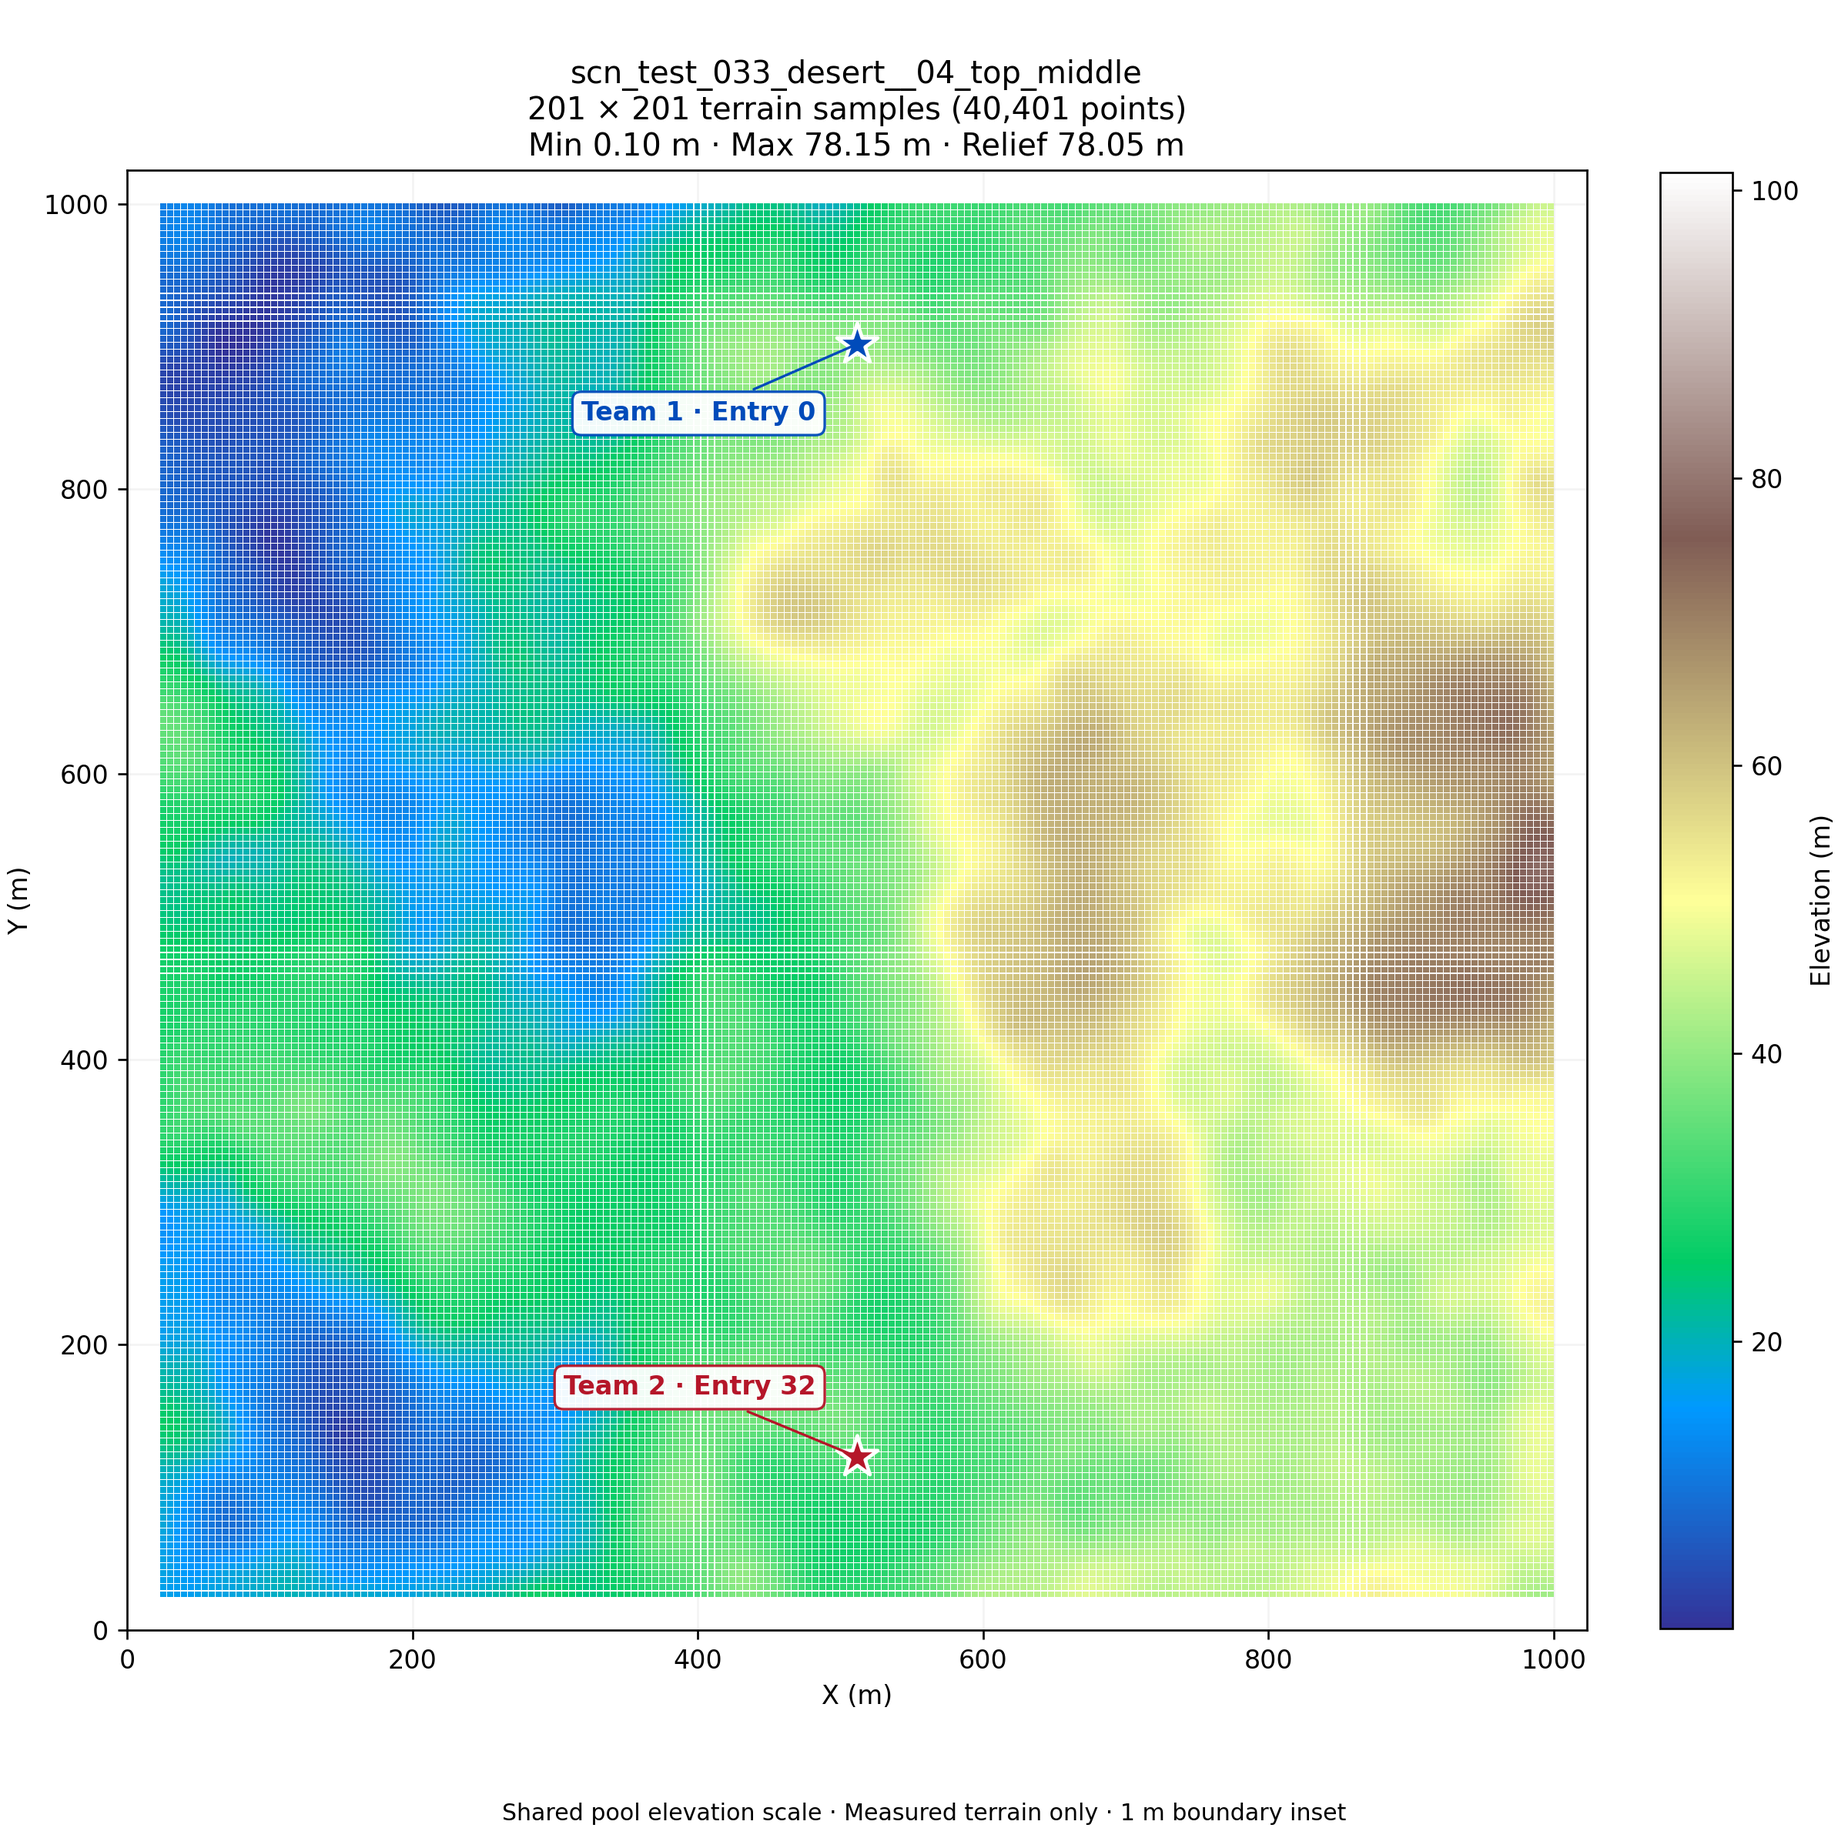
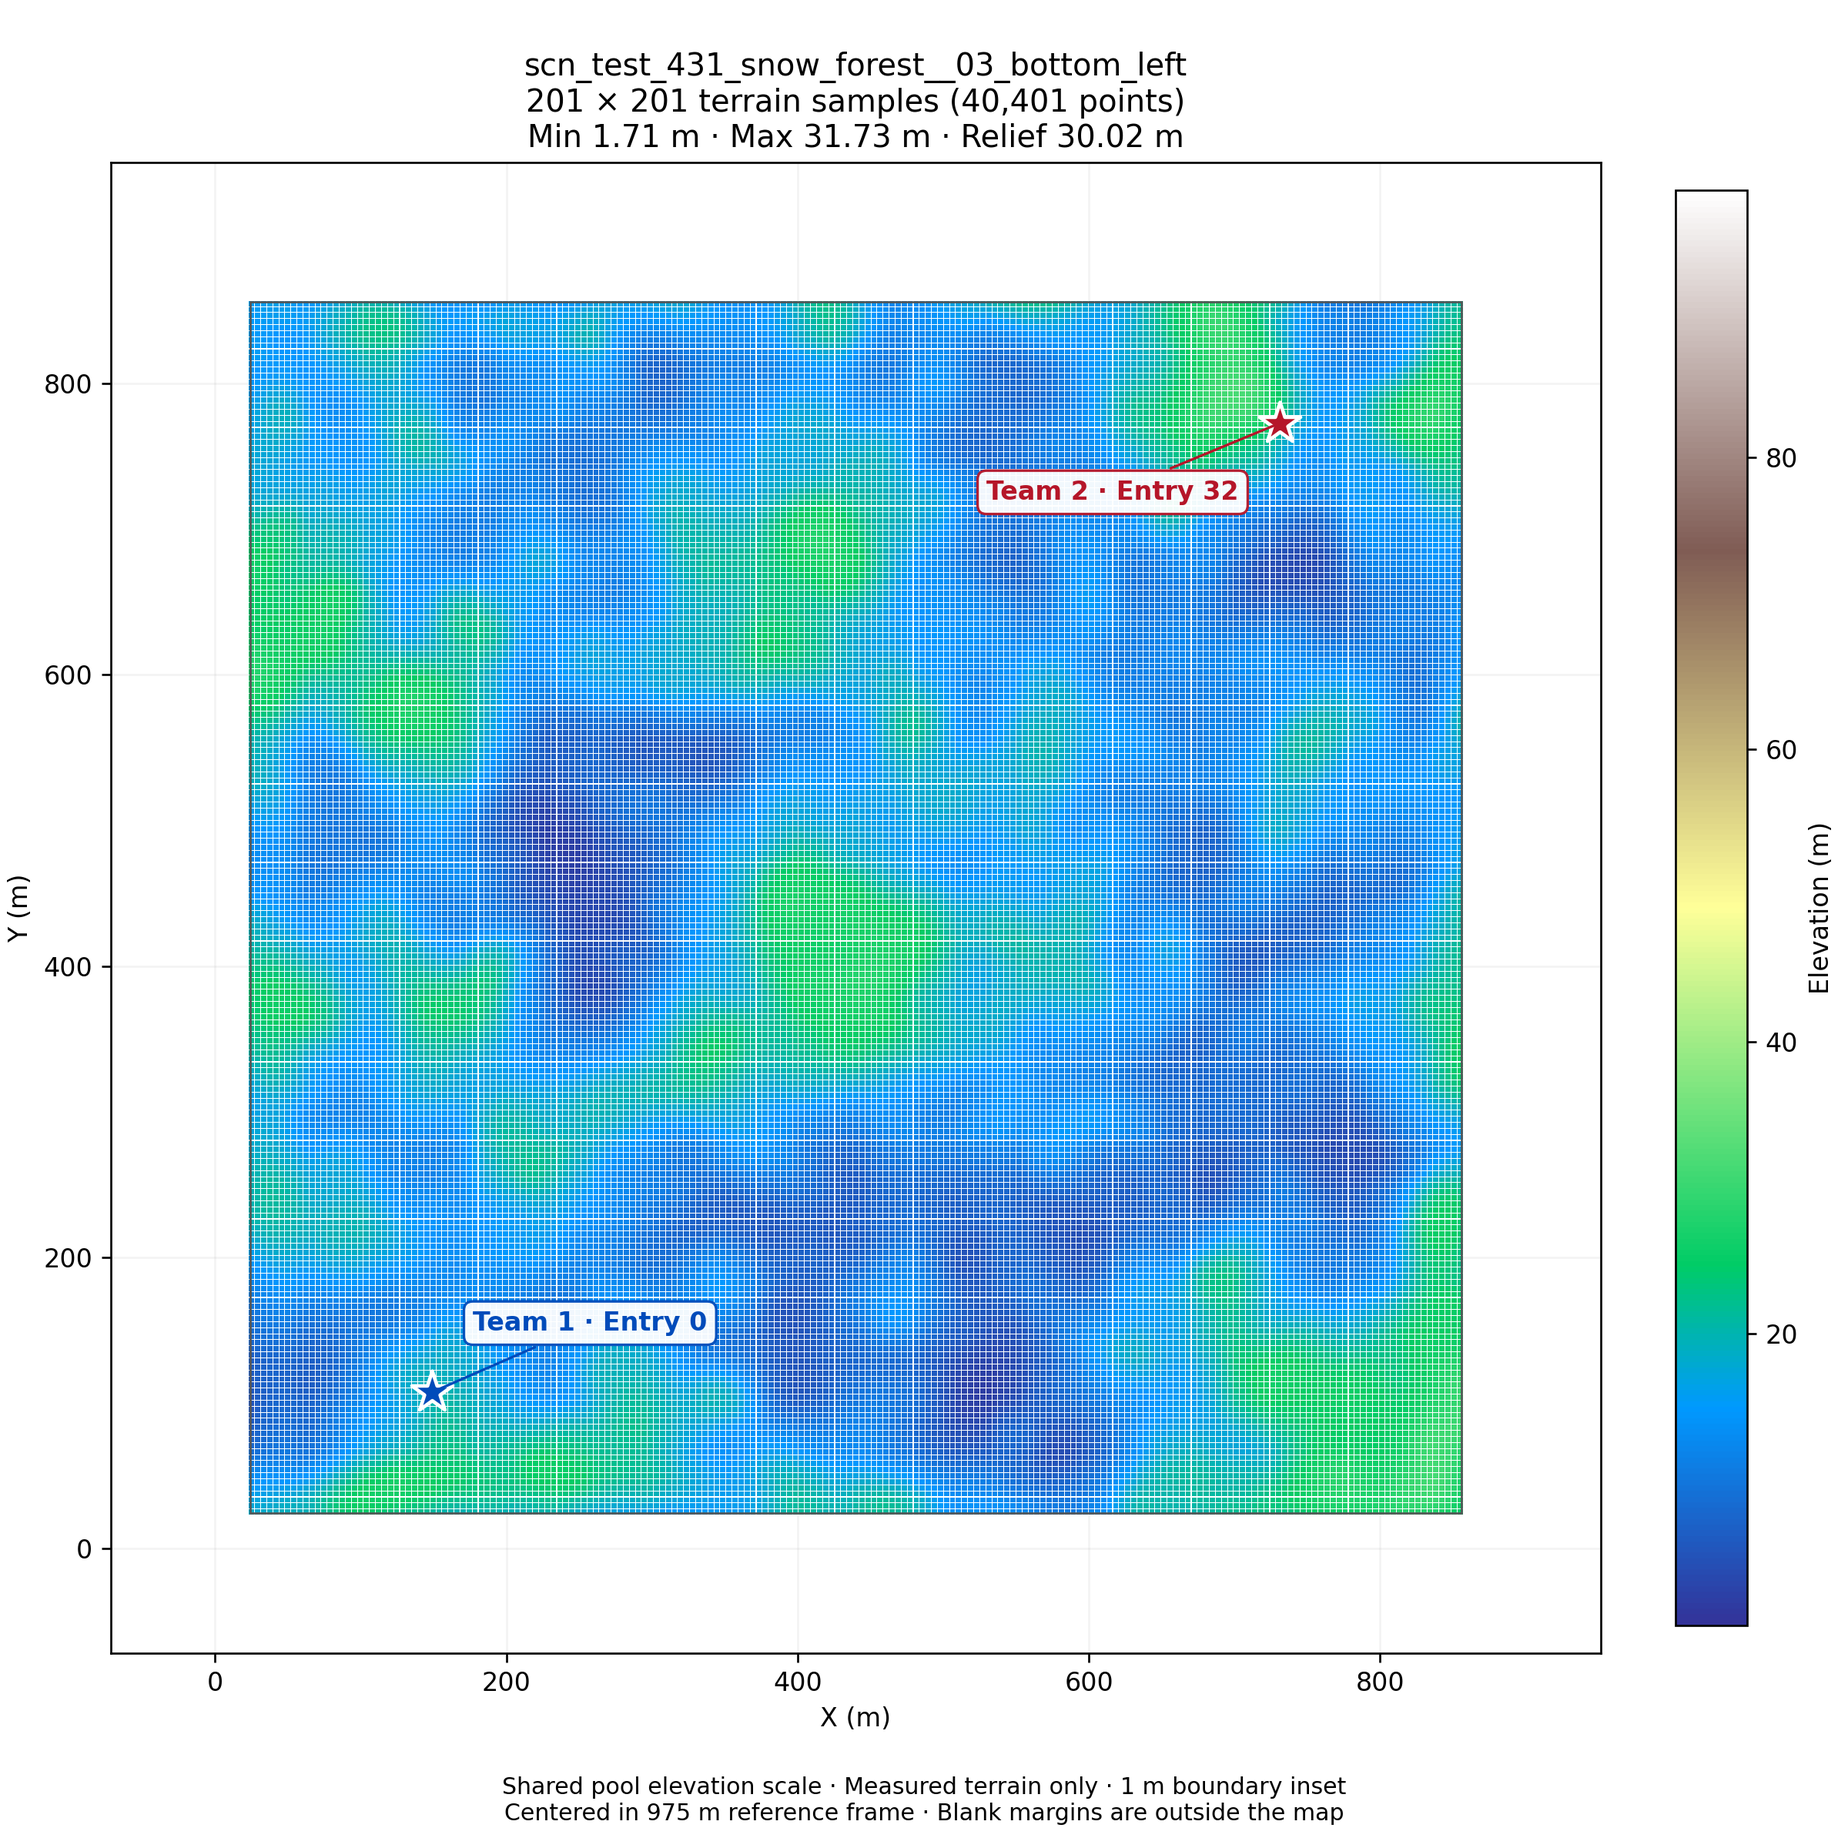
stats slide

diff --git a/src/main.js b/src/main.js
@@ -16,23 +16,50 @@ const [roundStatsHeaders, ...roundStatsRows] = roundStatsCsv.trim().split(/\r?\n
 const roundStatsColumns = roundStatsHeaders.map((header, index) => ({ header, index })).filter(column => column.header !== 'timestamp_utc');
 const roundResultIndex = roundStatsHeaders.indexOf('result');
 const roundDurationIndex = roundStatsHeaders.indexOf('duration_seconds');
+const roundPlayerIndex = roundStatsHeaders.indexOf('player_count');
+const roundRanges = new Map();
+// Share the layout and each map's selected range across both collections.
+const goodStats = $('rotation-round-stats').cloneNode(true);
+for (const element of [goodStats, ...goodStats.querySelectorAll('*')]) {
+  for (const attribute of ['id', 'for', 'aria-labelledby']) {
+    if (element.hasAttribute(attribute)) element.setAttribute(attribute, element.getAttribute(attribute).replaceAll('rotation-', 'good-'));
+  }
+}
+$('good-panel').append(goodStats);
 const roundStatsByMap = new Map();
 for (const row of roundStatsRows) {
   if (!row[0]) continue;
   if (!roundStatsByMap.has(row[0])) roundStatsByMap.set(row[0], []);
   roundStatsByMap.get(row[0]).push(row);
 }
-function renderRoundStats(filename) {
-  $('rotation-round-stats').hidden = !filename;
+function renderRoundStats(name, filename) {
+  const el = suffix => $(name + '-' + suffix);
+  el('round-stats').hidden = !filename;
   const mapName = filename?.replace(/^scn_/, '').replace(/\.png$/i, '');
-  const rows = roundStatsByMap.get(mapName) || [];
+  const allRows = roundStatsByMap.get(mapName) || [];
+  const [min, max] = roundRanges.get(mapName) || [1, 30];
+  el('player-min').value = min;
+  el('player-max').value = max;
+  el('player-min').setAttribute('aria-valuetext', `${min} players, maximum ${max}`);
+  el('player-max').setAttribute('aria-valuetext', `${max} players, minimum ${min}`);
+  el('player-range').textContent = `${min}–${max} players`;
+  el('player-slider').style.setProperty('--range-start', `${(min - 1) / 29 * 100}%`);
+  el('player-slider').style.setProperty('--range-end', `${(max - 1) / 29 * 100}%`);
+  el('player-min').style.zIndex = min === 30 ? '3' : '1';
+  const rows = allRows.filter(row => {
+    const players = Number(row[roundPlayerIndex]);
+    return Number.isInteger(players) && players >= min && players <= max;
+  });
+  el('game-count').textContent = rows.length;
+  el('round-empty').textContent = allRows.length ? 'No rounds match this player count range.' : 'No rounds recorded for this map.';
   const team1Wins = rows.filter(row => row[roundResultIndex] === 'team1').length;
   const durations = rows.map(row => row[roundDurationIndex]?.trim()).filter(value => value !== undefined && value !== '').map(Number).filter(value => Number.isFinite(value) && value >= 0);
-  $('rotation-team1-average').textContent = rows.length ? `${(team1Wins / rows.length * 100).toFixed(1)}%` : '—';
+  el('round-note').textContent = `Each recorded round counts as one game. ${rows.length} of ${allRows.length} games match; average duration uses ${durations.length} games with valid durations.`;
+  el('team1-average').textContent = rows.length ? `${(team1Wins / rows.length * 100).toFixed(1)}%` : '—';
   const averageSeconds = durations.length ? Math.round(durations.reduce((sum, value) => sum + value, 0) / durations.length) : null;
-  $('rotation-duration-average').textContent = averageSeconds === null ? '—' : `${Math.floor(averageSeconds / 60)}m ${averageSeconds % 60}s`;
-  $('rotation-round-caption').textContent = `Round stats · ${mapName || ''}`;
-  $('rotation-round-rows').replaceChildren(...rows.map(row => {
+  el('duration-average').textContent = averageSeconds === null ? '—' : `${Math.floor(averageSeconds / 60)}m ${averageSeconds % 60}s`;
+  el('round-caption').textContent = `Round stats · ${mapName || ''}`;
+  el('round-rows').replaceChildren(...rows.map(row => {
     const tr = document.createElement('tr');
     for (const { index } of roundStatsColumns) {
       const td = document.createElement('td');
@@ -41,8 +68,25 @@ function renderRoundStats(filename) {
     }
     return tr;
   }));
-  $('rotation-round-table').hidden = !rows.length;
-  $('rotation-round-empty').hidden = rows.length > 0;
+  el('round-table').hidden = !rows.length;
+  el('round-empty').hidden = rows.length > 0;
+}
+for (const name of ['rotation', 'good']) {
+  for (const end of ['min', 'max']) {
+    $(name + '-player-' + end).addEventListener('input', () => {
+      const filename = collections[name].images[collections[name].index]?.filename;
+      if (!filename) return;
+      const mapName = filename.replace(/^scn_/, '').replace(/\.png$/i, '');
+      let min = Number($(name + '-player-min').value);
+      let max = Number($(name + '-player-max').value);
+      if (end === 'min') min = Math.min(min, max);
+      else max = Math.max(min, max);
+      roundRanges.set(mapName, [min, max]);
+      for (const collection of ['rotation', 'good']) {
+        renderRoundStats(collection, collections[collection].images[collections[collection].index]?.filename);
+      }
+    });
+  }
 }
 const serverStats = setupServerStats(roundStatsHeaders, roundStatsRows);
 const tabs = ['rotation', 'review', 'good', 'bad', 'server', 'editor'];
@@ -52,7 +96,7 @@ let activeTab = 'rotation';
 function renderCollection(name) {
   const { images, index } = collections[name];
   const entry = images[index];
-  if (name === 'rotation') renderRoundStats(entry?.filename);
+  if (name === 'rotation' || name === 'good') renderRoundStats(name, entry?.filename);
   if (name === 'good') {
     const available = editor.canEdit(entry?.filename);
     $('good-edit').disabled = !available;

diff --git a/src/style.css b/src/style.css
@@ -43,3 +43,14 @@
 .population-card{padding:24px;background:#fff;border:1px solid #dce1d7;border-radius:12px}.population-controls{display:flex;flex-wrap:wrap;gap:16px}.population-controls label{display:flex;flex-direction:column;gap:8px;font-size:13px;font-weight:600;max-width:100%}.population-controls select{font:inherit;padding:10px;border:1px solid #aebdb0;border-radius:6px;background:#fff;color:#243331;max-width:100%;min-height:44px}.population-summary{margin:22px 0 10px;font-size:14px}.population-chart-wrap{overflow-x:auto}.population-chart-wrap svg{display:block;width:100%;min-width:680px}.population-chart-wrap text{font:12px 'DM Sans',sans-serif;fill:#536356}.population-grid{stroke:#e1e6dd;stroke-width:1}.population-gap{fill:#e6ad4c;opacity:.15}.population-line{fill:none;stroke:#426842;stroke-width:2}.population-dot{fill:#426842;stroke:#fff;stroke-width:1;cursor:pointer}.population-dot:hover,.population-dot:focus{fill:#c18220;stroke:#243331;stroke-width:2;outline:none}#population-detail{min-height:24px;font-size:13px;color:#365431}.population-note{font-size:12px;line-height:1.7;color:#738078;margin-bottom:8px}@media(max-width:700px){.population-card{padding:16px}.population-controls{gap:12px}.population-controls label:first-child{width:100%}}
 .duration-card{margin-top:24px}.duration-card h2{font-size:22px;margin-bottom:12px}.duration-dot{fill-opacity:.4}.duration-dot:hover,.duration-dot:focus{fill-opacity:1}#duration-detail{min-height:24px;font-size:13px;color:#365431}
 .population-controls .population-color-toggle{flex-direction:row;align-items:center;align-self:flex-end;min-height:44px;font-weight:500;cursor:pointer}.population-color-toggle input{width:18px;height:18px;accent-color:#426842}.population-duration-legend{display:flex;align-items:center;flex-wrap:wrap;gap:12px 20px;margin-top:20px;font-size:12px}.duration-color-scale{width:240px;max-width:100%}.duration-color-ramp{height:12px;border-radius:4px;background:linear-gradient(to right,rgb(37,99,235),rgb(234,88,12))}.duration-color-labels{display:flex;justify-content:space-between;gap:12px;margin-top:6px}.duration-unknown-swatch{display:inline-block;width:10px;height:10px;border-radius:50%;background:#8a9588;margin-right:5px}.population-duration-legend .population-note{margin:0}.population-dot{fill:var(--point-color,#426842)}.population-dot:hover,.population-dot:focus{fill:var(--point-color,#c18220)}
+
+.round-player-filter{max-width:480px;margin-bottom:24px}
+.round-player-heading,.round-player-limits{display:flex;justify-content:space-between;gap:16px;font-size:13px}
+.round-player-heading{font-weight:600}.round-player-limits{color:#738078;font-size:12px}
+.round-player-slider{position:relative;height:44px;margin:0 12px;--range-start:0%;--range-end:100%}
+.round-player-slider::before{content:"";position:absolute;left:0;right:0;top:19px;height:6px;border-radius:3px;background:linear-gradient(to right,#dce1d7 var(--range-start),#426842 var(--range-start),#426842 var(--range-end),#dce1d7 var(--range-end))}
+.round-player-slider input{position:absolute;left:-12px;top:0;width:calc(100% + 24px);height:44px;margin:0;appearance:none;-webkit-appearance:none;background:transparent;pointer-events:none}
+.round-player-slider input::-webkit-slider-thumb{appearance:none;-webkit-appearance:none;width:24px;height:24px;border:2px solid #fff;border-radius:50%;background:#426842;box-shadow:0 0 0 1px #426842;pointer-events:auto;cursor:ew-resize}
+.round-player-slider input::-moz-range-thumb{width:20px;height:20px;border:2px solid #fff;border-radius:50%;background:#426842;box-shadow:0 0 0 1px #426842;pointer-events:auto;cursor:ew-resize}
+.round-player-slider input:focus-visible{outline:2px solid #e6ad4c;outline-offset:2px;border-radius:6px;z-index:4!important}
+.round-stats .round-stats-note{margin-bottom:18px;line-height:1.6}

diff --git a/index.html b/index.html
@@ -22,10 +22,20 @@
         <div class="image-stage rotation-stage"><img id="rotation-image" alt=""/><span id="rotation-state" role="status">Loading map…</span><a id="rotation-full-image" target="_blank" rel="noopener" aria-label="Open original rotation PNG in a new tab">↗ Full size</a></div>
       </section>
       <section id="rotation-round-stats" class="round-stats" aria-label="Round statistics">
+        <div class="round-player-filter" role="group" aria-labelledby="rotation-player-label">
+          <div class="round-player-heading"><span id="rotation-player-label">Player count</span><output id="rotation-player-range" for="rotation-player-min rotation-player-max">1–30 players</output></div>
+          <div id="rotation-player-slider" class="round-player-slider">
+            <input id="rotation-player-min" type="range" min="1" max="30" value="1" step="1" aria-label="Minimum player count">
+            <input id="rotation-player-max" type="range" min="1" max="30" value="30" step="1" aria-label="Maximum player count">
+          </div>
+          <div class="round-player-limits"><span>1 player</span><span>30 players</span></div>
+        </div>
         <div class="round-stats-summary" aria-live="polite">
+          <div><span>Total games</span><strong id="rotation-game-count">0</strong></div>
           <div><span>Team 1 win %</span><strong id="rotation-team1-average">—</strong></div>
           <div><span>Average duration</span><strong id="rotation-duration-average">—</strong></div>
         </div>
+        <p id="rotation-round-note" class="round-stats-note"></p>
         <div class="round-stats-scroll" tabindex="0" role="region" aria-label="Round statistics table">
           <table id="rotation-round-table">
             <caption id="rotation-round-caption">Round stats</caption>

diff --git a/tests/map_stats_smoke.py b/tests/map_stats_smoke.py
@@ -1,0 +1,58 @@
+"""Check map statistics against the CSV; run against a local Vite server."""
+import csv
+import math
+from pathlib import Path
+import sys
+from playwright.sync_api import sync_playwright
+
+rows = list(csv.DictReader((Path(__file__).resolve().parents[1] / 'map_round_stats.csv').open()))
+with sync_playwright() as pw:
+    browser = pw.chromium.launch()
+    page = browser.new_page(viewport={'width': 1280, 'height': 900})
+    errors = []
+    page.on('pageerror', lambda error: errors.append(str(error)))
+    page.goto(sys.argv[1] if len(sys.argv) > 1 else 'http://127.0.0.1:4173')
+
+    def check(tab, low, high):
+        name = page.locator(f'#{tab}-filename').inner_text().removeprefix('scn_').removesuffix('.png')
+        selected = [row for row in rows if row['map_name'] == name and row['player_count'] and low <= float(row['player_count']) <= high]
+        assert page.locator(f'#{tab}-game-count').inner_text() == str(len(selected))
+        assert page.locator(f'#{tab}-round-rows tr').count() == len(selected)
+        expected = f"{100 * sum(row['result'] == 'team1' for row in selected) / len(selected):.1f}%" if selected else '—'
+        assert page.locator(f'#{tab}-team1-average').inner_text() == expected
+        durations = [float(row['duration_seconds']) for row in selected if row['duration_seconds'] and float(row['duration_seconds']) >= 0]
+        seconds = math.floor(sum(durations) / len(durations) + .5) if durations else None
+        expected = f'{seconds // 60}m {seconds % 60}s' if seconds is not None else '—'
+        assert page.locator(f'#{tab}-duration-average').inner_text() == expected
+
+    check('rotation', 1, 30)
+    page.locator('#rotation-player-min').fill('5')
+    page.locator('#rotation-player-max').fill('15')
+    check('rotation', 5, 15)
+    filename = page.locator('#rotation-filename').inner_text()
+    page.locator('#rotation-player-min').focus()
+    page.keyboard.press('ArrowRight')
+    assert page.locator('#rotation-filename').inner_text() == filename
+    check('rotation', 6, 15)
+    page.click('#rotation-next')
+    check('rotation', 1, 30)
+    page.click('#rotation-previous')
+    check('rotation', 6, 15)
+    page.click('#good-tab')
+    check('good', 1, 30)
+    page.locator('#good-player-max').fill('1')
+    check('good', 1, 1)
+    page.locator('#good-player-min').fill('20')
+    assert page.locator('#good-player-min').input_value() == '1'
+    page.locator('#good-player-max').fill('30')
+    page.locator('#good-player-min').fill('30')
+    check('good', 30, 30)
+    page.locator('#good-player-min').focus()
+    page.keyboard.press('ArrowLeft')
+    check('good', 29, 30)
+    page.set_viewport_size({'width': 390, 'height': 844})
+    page.locator('#good-round-stats').scroll_into_view_if_needed()
+    assert page.evaluate('document.documentElement.scrollWidth <= innerWidth')
+    assert not errors, errors
+    browser.close()
+print('Map statistics browser checks passed.')
